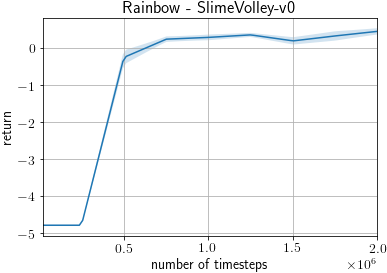
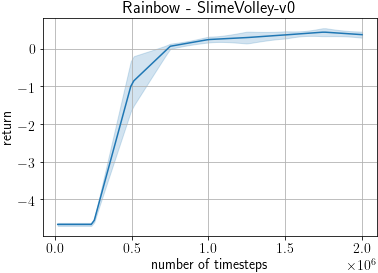
Update the results after action space fix

Changed region(s): [[0.0291, 0.0, 1.0, 0.9963], [0.0, 0.4982, 0.0291, 0.5275]]

diff --git a/examples/slimevolley/README.md b/examples/slimevolley/README.md
@@ -39,7 +39,7 @@ python examples/slimevolley/train_rainbow.py --demo --render --load <path to age
 
 Below is the learning curve of the example script averaged over three trials with different random seeds. Each trial took around 18 hours for 2M steps. After every ~250K timesteps, the agent is evaluated for 1000 episodes, following the protocol of https://github.com/hardmaru/slimevolleygym/blob/master/TRAINING.md#ppo-and-cma-es-example-train-directly-against-baseline-policy (https://github.com/hardmaru/slimevolleygym/blob/2aba3d2c70429ff8447f17951a528dcfd5ab7cd0/training_scripts/train_ppo.py). 
 
-All the three trials outperform the baseline policy, i.e., achieving a positive average score over 1000 evaluation episodes, after 750K steps. The best trial among three achieved 0.566 after 2M steps, the model of which is used for the animation.
+All the three trials outperform the baseline policy, i.e., achieving a positive average score over 1000 evaluation episodes, after 750K steps. The best trial among three achieved 0.541 after 1.75M steps, the model of which is used for the animation.
 
 ![LearningCurve](assets/learningcurve.png)
 
